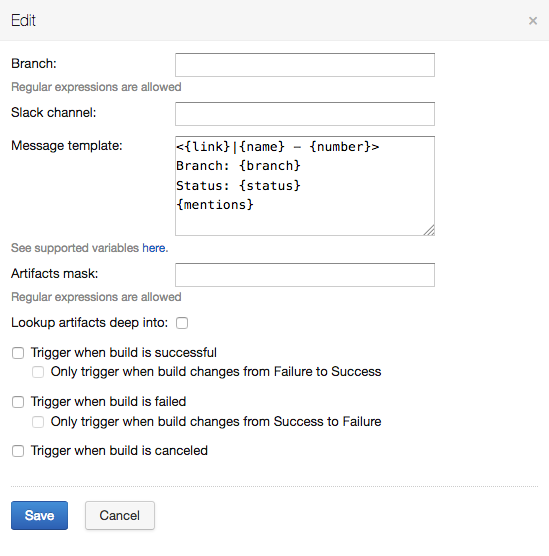
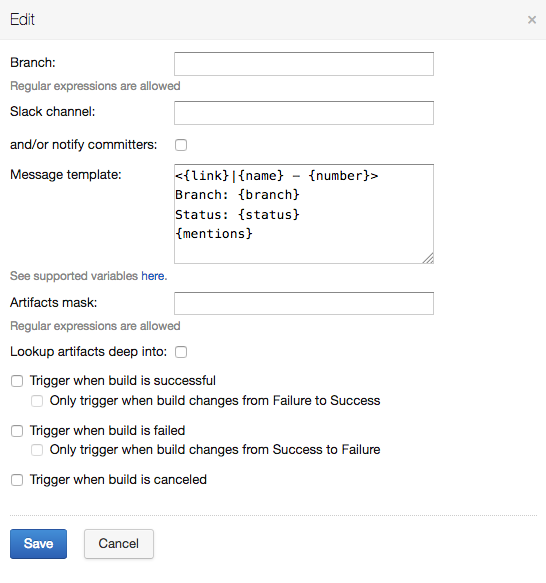
Personal notifications in readme

diff --git a/README.md b/README.md
@@ -51,7 +51,7 @@ Sample configuration:
 
 ![Edit settings](_doc/edit-settings.png "Edit settings")
 
-Notifications for branches captured by regular expression will be sent to slack channel.
+Notifications for branches captured by regular expression will be sent to slack channel or/and private chat.
 Message will be compiled according to template.
 
 **Note.** Please avoid using heading `#` in channel name.
